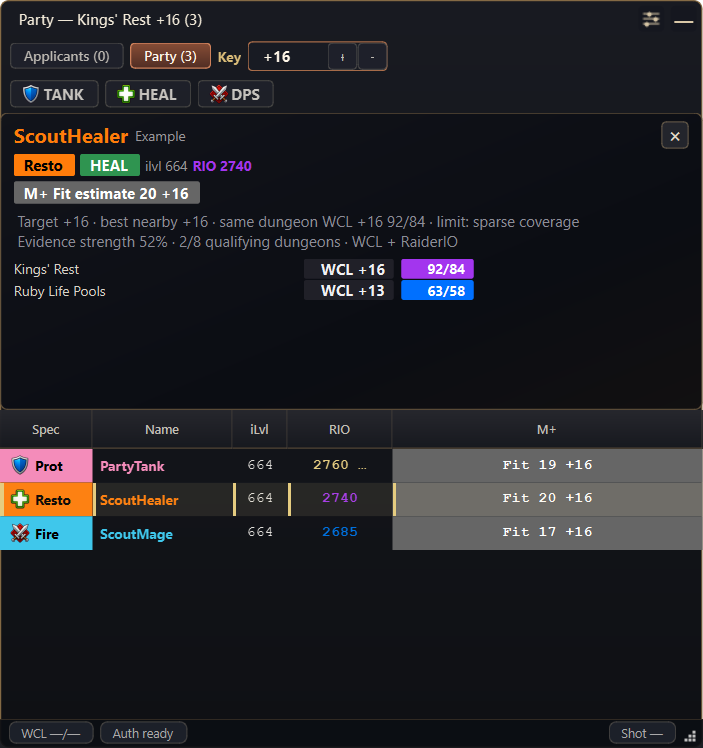
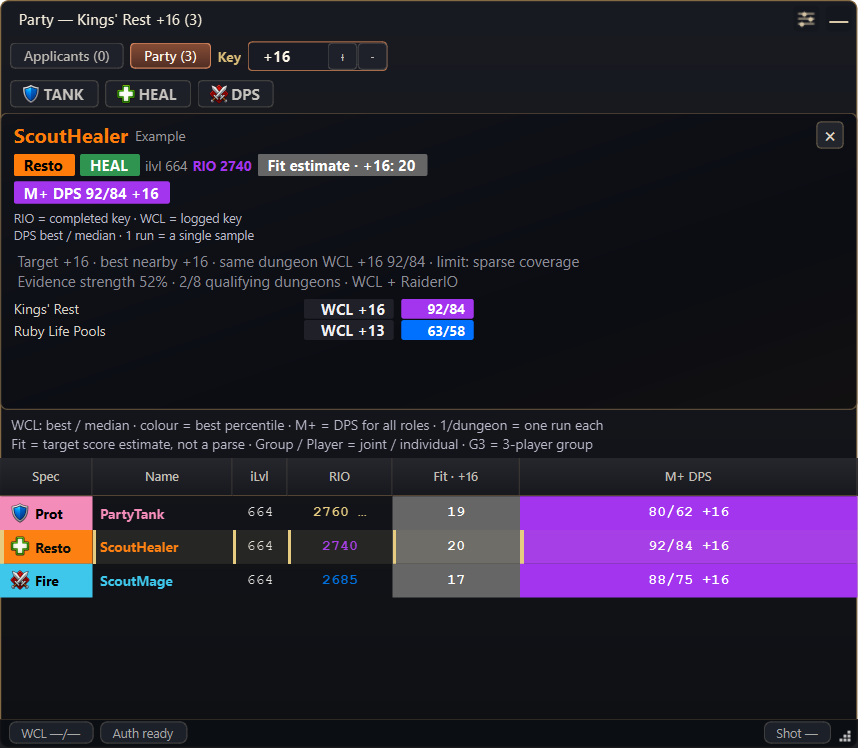
feat: prepare v0.10.0 with clearer scouting and paired setup

diff --git a/CHANGELOG.md b/CHANGELOG.md
@@ -1,11 +1,23 @@
 # Changelog
 
-## Unreleased
+## 0.10.0 - 08-Sep-2026 - Clearer scouting and setup
+
+Paired release with ApplicantScout Companion `0.16.0`.
+
+### Improved
+
+- The paired companion keeps raid and Mythic+ parses colored in every context
+  and shows target Fit separately from raw WCL results.
+- Clear difficulty names and visible metric legends explain best/median
+  results, boss kills, item-level comparisons and limited dungeon samples.
 
 - Explain the required Windows companion on first use, with a selectable
   download link. Reopen the guide with `/apscout setup`.
 - Keep the guide out of combat, active keys, encounters and loading screens.
 - Clarify setup and downloads in the paired addon and companion documentation.
+
+### Fixed
+
 - Restore screenshot settings reliably when the client delays or rejects a
   restoration attempt.
 

diff --git a/README.md b/README.md
@@ -76,7 +76,8 @@ folder name for WoW.
 - RaiderIO current score, optional main-score context, and local RaiderIO
   dungeon/raid evidence when the RaiderIO addon data is available.
 - Role, item level, grouped-applicant packages, and per-player rows.
-- Raid-fit cells for Normal/Heroic/Mythic raid listings.
+- A separate Fit column for the target key or raid, alongside coloured Normal,
+  Heroic, Mythic, and M+ WCL results with a visible metric legend.
 - Target-key fit, dungeon history, and low-evidence markers for Mythic+.
 - Current party/raid roster context after invites or after joining a group.
 - Optional playstyle and Auto Hi controls for in-game quality-of-life.
